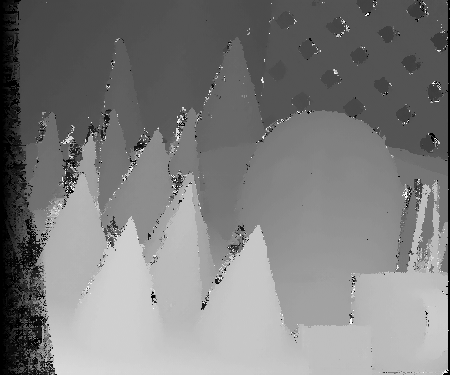
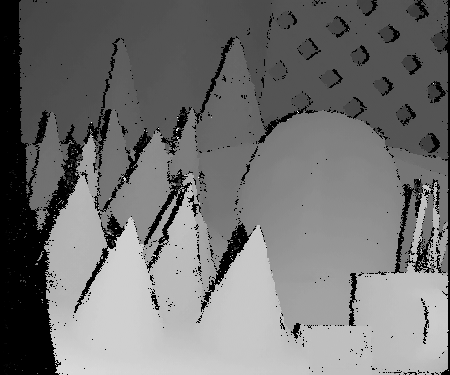
2022_07_15_LRCheck

diff --git a/SemiGlobalMatching.cpp b/SemiGlobalMatching.cpp
@@ -57,6 +57,7 @@ SemiGlobalMatching::initialize(const uint32 &width, const uint32 &height, const 
 
     // 视差图
     this->dispLeft_ = new float32[width * height];
+    this->dispRight_ = new float32[width * height];
 
     this->isInitialized_ =
             this->censusLeft_ && this->censusRight_ && this->costInit_ && this->costAggr_ && this->dispLeft_;
@@ -247,10 +248,109 @@ void SemiGlobalMatching::computeDisparity() const {
                     static_cast<float32>(bestDisparity) + static_cast<float32>(cost_1 - cost_2) / (denom * 2.0f);
         }
     }
+
+    // 左右一致性检查
+    if (option_.isChceckLR) {
+        // 视差计算（右影像）
+        computeDisparityRight();
+        // 一致性检查
+        lrCheck();
+    }
+}
+
+void SemiGlobalMatching::computeDisparityRight() const {
+    const sint32 &minDisparity = option_.minDisparity;
+    const sint32 &maxDisparity = option_.maxDisparity;
+    const sint32 dispRange = maxDisparity - minDisparity;
+    if (dispRange <= 0) {
+        return;
+    }
+
+    // 左影像视差图
+    const auto disparity = dispRight_;
+    // 左影像聚合代价数组
+    const auto costPtr = costAggr_;
+
+    const sint32 width = width_;
+    const sint32 height = height_;
+
+    // 为了加快读取效率，把单个像素的所有代价值存储到局部数组里
+    std::vector<uint16> costLocal(dispRange);
+
+    // ---逐像素计算最优视差
+    // 通过左影像的代价，获取右影像的代价
+    // 右cost(xr,yr,d) = 左cost(xr+d,yl,d)
+    for (sint32 i = 0; i < height; i++) {
+        for (sint32 j = 0; j < width; j++) {
+            uint16 minCost = UINT16_MAX;
+            sint32 bestDisparity = 0;
+
+            // ---统计候选视差下的代价值
+            for (sint32 d = minDisparity; d < maxDisparity; d++) {
+                const sint32 dIdx = d - minDisparity;
+                const sint32 colLeft = j + d;
+                if (colLeft >= 0 && colLeft < width) {
+                    const auto &cost = costLocal[dIdx] = costPtr[i * width * dispRange + colLeft * dispRange +
+                                                                  dIdx];
+                    if (minCost > cost) {
+                        minCost = cost;
+                        bestDisparity = d;
+                    }
+                } else {
+                    costLocal[dIdx] = UINT16_MAX;
+                }
+            }
+
+            // ---子像素拟合
+            if (bestDisparity == minDisparity || bestDisparity == maxDisparity - 1) {
+                disparity[i * width + j] = Invalid_Float;
+                continue;
+            }
+            // 最优视差前一个视差的代价值cost_1，后一个视差的代价值cost_2
+            const sint32 idx_1 = bestDisparity - 1 - minDisparity;
+            const sint32 idx_2 = bestDisparity + 1 - minDisparity;
+            const uint16 cost_1 = costLocal[idx_1];
+            const uint16 cost_2 = costLocal[idx_2];
+            // 解一元二次曲线极值
+            const uint16 denom = std::max(1, cost_1 + cost_2 - 2 * minCost);
+            disparity[i * width + j] =
+                    static_cast<float32>(bestDisparity) + static_cast<float32>(cost_1 - cost_2 ) / (denom * 2.0f);
+
+        }
+    }
 }
 
 void SemiGlobalMatching::lrCheck() const {
+    const int width = width_;
+    const int height = height_;
 
+    const float32& threshold = option_.lrCheckThres;
+
+    // ---左右一致性检查
+    for (int i = 0; i < height; i++) {
+        for (int j = 0; j < width; j++) {
+            // 左影像视差值
+            auto& disp = dispLeft_[i * width + j];
+
+            // 根据视差值找到右影像上对应的同名像素
+            const auto colRight = static_cast<sint32>(j - disp + 0.5);
+
+            if(colRight >= 0 && colRight < width) {
+                // 右影像上同名像素的视差值
+                const auto& disp_r = dispRight_[i * width + colRight];
+
+                // 判断两个视差值是否一致（差值在阈值内）
+                if (abs(disp - disp_r) > threshold) {
+                    // 左右不一致
+                    disp = Invalid_Float;
+                }
+            }
+            else{
+                // 通过视差值在右影像上找不到同名像素（超出影像范围）
+                disp = Invalid_Float;
+            }
+        }
+    }
 }
 
 void SemiGlobalMatching::Release() {
@@ -268,4 +368,5 @@ void SemiGlobalMatching::Release() {
     SAFE_DELETE(costAggr7_);
     SAFE_DELETE(costAggr8_);
     SAFE_DELETE(dispLeft_);
+    SAFE_DELETE(dispRight_);
 }

diff --git a/SemiGlobalMatching.h b/SemiGlobalMatching.h
@@ -26,7 +26,11 @@ public:
         sint32 p1;                 // 惩罚项参数P1
         sint32 p2Init;             // 惩罚项参数P2
 
-        SGMOption() : numPaths(8), minDisparity(0), maxDisparity(640), p1(10), p2Init(150) {}
+        bool isChceckLR;        // 是否检查左右一致性
+        float32 lrCheckThres;        // 左右一致性约束阈值
+
+        SGMOption() : numPaths(8), minDisparity(0), maxDisparity(640), p1(10), p2Init(150), isChceckLR(true),
+                      lrCheckThres(1.0f) {}
     };
 
     /**
@@ -65,6 +69,9 @@ private:
 
     /** \brief 视差计算 */
     void computeDisparity() const;
+
+    /** \brief 右视差计算	 */
+    void computeDisparityRight() const;
 
     /** \brief 一致性检查 */
     void lrCheck() const;
@@ -131,6 +138,9 @@ private:
 
     /** \brief 聚合匹配代价-方向8	*/
     uint8 *costAggr8_;
+
+    /** \brief 右图像视差图 */
+    float32 *dispRight_;
 };
 
 

diff --git a/main.cpp b/main.cpp
@@ -56,6 +56,9 @@ int main() {
     // 惩罚项P1、P2
     sgmOption.p1 = 10;
     sgmOption.p2Init = 150;
+    // 一致性检查
+    sgmOption.isChceckLR = true;
+    sgmOption.lrCheckThres = 1.0f;
 
     SemiGlobalMatching sgm;
 
